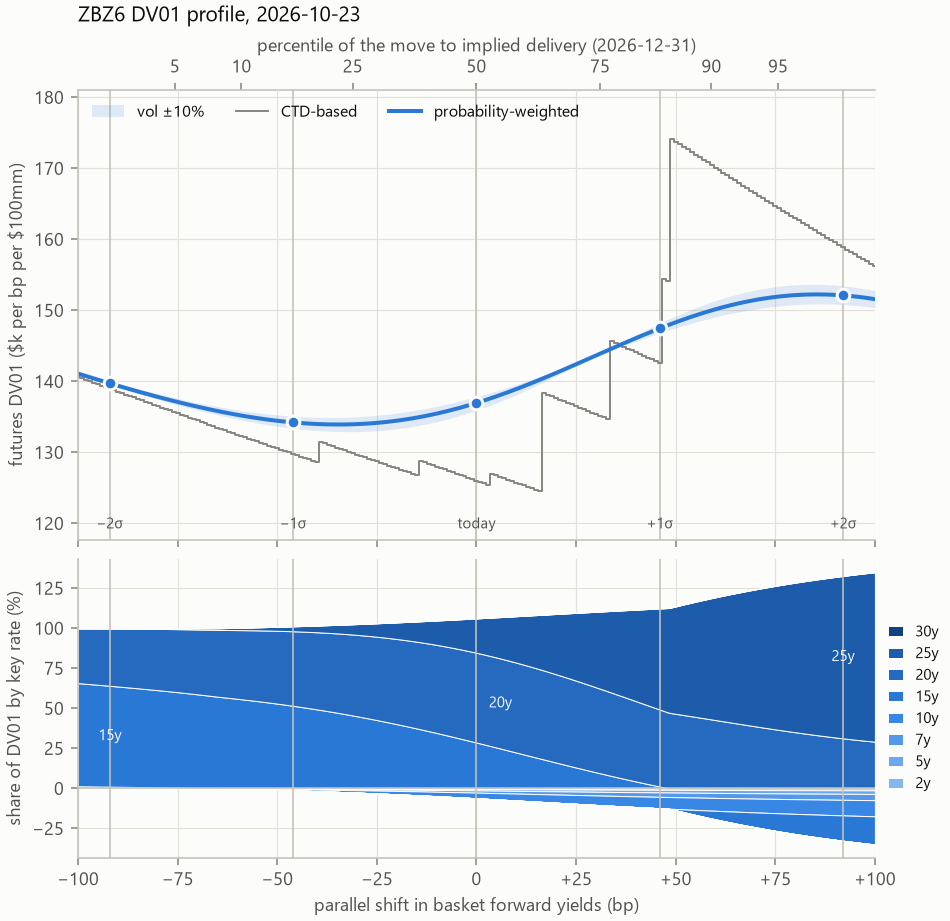
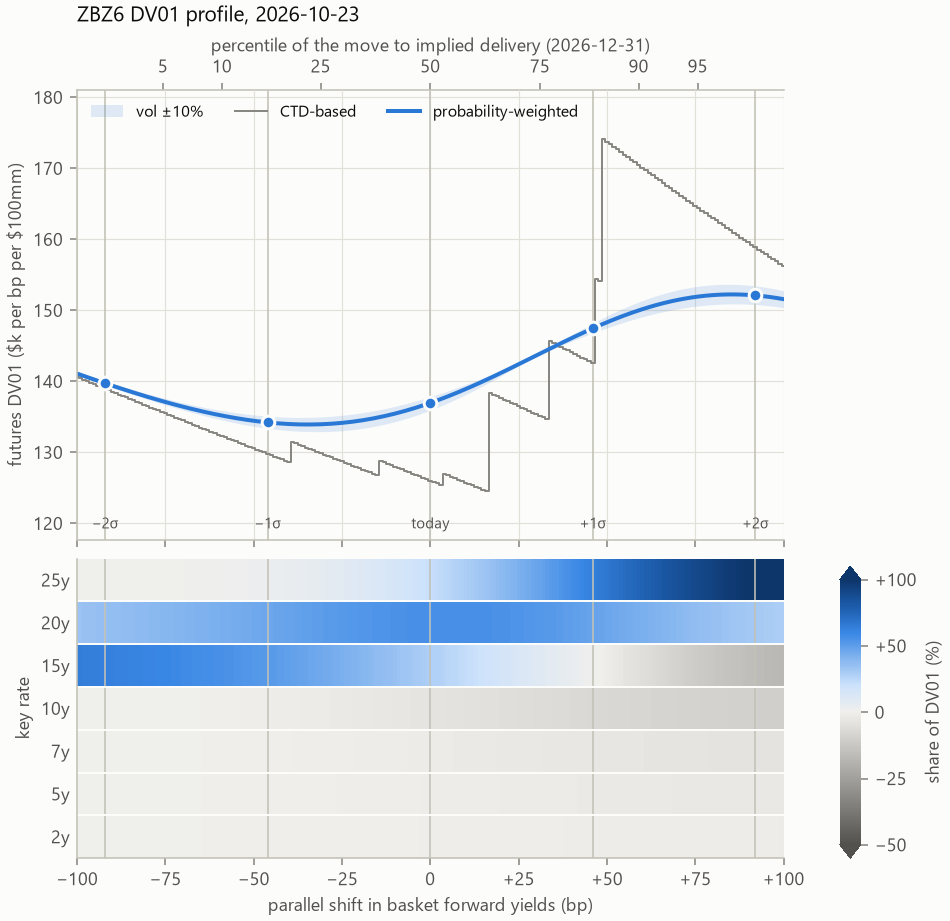
Draw chart 1's key-rate shares as a heatmap
Eight buckets as stacked bands needed eight distinguishable steps of one blue, more than the ramp
holds: six of seven neighbouring pairs were under the palette's lightness step, and the negative
shares stacked below zero couldn't be read. One row per bucket instead, positive shares in blue
and negative ones in gray on a fixed −50% to +100% scale, so the switch shows as the dark cell
moving between rows. Decision recorded in decisions.md; README image redrawn.

diff --git a/src/ctd/report/charts.py b/src/ctd/report/charts.py
@@ -6,8 +6,8 @@ global figure state; style through ``rc_context``.
 
 - Chart 1: region-weighted futures DV01 against the shift (vol ±10% band, the CTD-based staircase,
   the ±1σ and ±2σ states as points), percentiles of the move to implied delivery on the top axis; below
-  on the same x-axis, each key-rate bucket's share of the DV01, positives stacked up and negatives
-  down.
+  on the same x-axis, a heatmap of each key-rate bucket's share of the DV01 (one row per bucket,
+  positive shares in the blue ramp, negative ones in gray, on one scale for every contract).
 - Chart 2: the change in each key-rate DV01 from today at −2σ, −1σ, +1σ and +2σ, with the
   CTD-based change as a marker on each bar.
 - Chart 3: one contract's series (``report.series``) by trading day: the model DV01 with its ±1σ
@@ -19,6 +19,7 @@ import io
 
 import matplotlib
 import numpy as np
+from matplotlib.colors import LinearSegmentedColormap, TwoSlopeNorm
 from matplotlib.figure import Figure
 from matplotlib.lines import Line2D
 from matplotlib.ticker import FixedLocator, FuncFormatter
@@ -27,11 +28,21 @@ from scipy.special import ndtr, ndtri
 from ctd.report.series import CTD, Row
 from ctd.risk.dv01 import dollars
 
-# reference palette (dataviz skill, light surface): chrome, slot-1 blue, the blue ordinal ramp from
-# step 250 for the eight buckets (short tenors light, long dark), blue ↔ red for rally ↔ sell-off
+# reference palette (dataviz skill, light surface): chrome, slot-1 blue, blue ↔ red for rally ↔ sell-off.
+# Chart 1's bucket shares are a heatmap, so the row names the bucket and color only has to carry the
+# share: the sequential blue ramp up from the neutral gray for positive shares, gray down for negative
+# ones (blue ↔ red would clash with chart 2's rally ↔ sell-off). Eight buckets as stacked bands needed
+# eight distinguishable steps of one hue, more than the ramp holds (decisions.md, Chart rendering).
 SURFACE, INK, INK2, MUTED, GRID, AXIS = "#fcfcfb", "#0b0b0b", "#52514e", "#898781", "#e1e0d9", "#c3c2b7"
 SERIES = "#2a78d6"
-BUCKETS = ("#86b6ef", "#6da7ec", "#5598e7", "#3987e5", "#2a78d6", "#256abf", "#1c5cab", "#104281")
+NEUTRAL = "#f0efec"
+SHARE_CMAP = LinearSegmentedColormap.from_list(
+    "share", [(0.0, INK2), (0.5, NEUTRAL), (0.6, "#cde2fb"), (0.7, "#86b6ef"), (0.8, "#3987e5"),
+              (0.9, "#1c5cab"), (1.0, "#0d366b")])
+# % of DV01, the same scale for every contract. Shares run from about −25% (the short buckets of
+# low-coupon bonds) to about 140% (UBZ6's 25y), so gray is full at −50% and blue at +100%; beyond
+# either, the end color.
+SHARE_NORM = TwoSlopeNorm(vcenter=0, vmin=-50, vmax=100)
 STATES = {-2: "#1c5cab", -1: "#86b6ef", 1: "#f0a09f", 2: "#e34948"}
 SIGMA = {-2: "−2σ", -1: "−1σ", 0: "today", 1: "+1σ", 2: "+2σ"}
 
@@ -112,32 +123,34 @@ def profile_chart(rec: dict) -> bytes:
 
         dv01 = np.array(curve["dv01"])
         shares = 100 * np.array(curve["krd"]) / dv01[:, None]
-        nodes = rec["krd"]["nodes"]
-        labels = [f"{n:g}y" for n in nodes]
-        up = bottom.stackplot(x, np.clip(shares, 0, None).T, colors=BUCKETS, edgecolor=SURFACE, linewidth=0.5,
-                              labels=labels)
-        bottom.stackplot(x, np.clip(shares, None, 0).T, colors=BUCKETS, edgecolor=SURFACE, linewidth=0.5)
-        bottom.axhline(0, color=AXIS, linewidth=0.8)
-        _label_bands(bottom, x, np.clip(shares, 0, None), labels)
-        bottom.set_ylabel("share of DV01 by key rate (%)")
+        keep = share_rows(shares)
+        nodes = rec["krd"]["nodes"][keep]
+        xe = np.r_[x[0], (x[1:] + x[:-1]) / 2, x[-1]]  # cell edges around each centre
+        mesh = bottom.pcolormesh(xe, np.arange(len(nodes) + 1) - 0.5, shares[:, keep].T, cmap=SHARE_CMAP,
+                                 norm=SHARE_NORM, shading="flat")
+        bottom.grid(False)
+        for y in np.arange(1, len(nodes)) - 0.5:  # a surface gap between rows
+            bottom.axhline(y, color=SURFACE, linewidth=1)
+        bottom.set_yticks(np.arange(len(nodes)), [f"{n:g}y" for n in nodes])
+        bottom.tick_params(axis="y", length=0)
+        bottom.set_ylabel("key rate")
         bottom.set_xlabel(LIGHT_MODEL_SHIFT_AXIS)
         bottom.set_xlim(x[0], x[-1])
         bottom.xaxis.set_major_formatter(FuncFormatter(_bp))
-        bottom.legend(up[::-1], labels[::-1], loc="center left", bbox_to_anchor=(1.0, 0.5), fontsize=7.5,
-                      handlelength=1.0)
+        bar = fig.colorbar(mesh, ax=[top, bottom], location="right", shrink=0.38, anchor=(0.0, 0.0), aspect=14,
+                           extend="both")
+        bar.set_label("share of DV01 (%)", color=INK2)
+        bar.outline.set_visible(False)
+        bar.set_ticks([-50, -25, 0, 50, 100])
+        bar.ax.yaxis.set_major_formatter(FuncFormatter(lambda v, _: f"{v:+.0f}".replace("-", "−") if v else "0"))
         return _png(fig)
 
 
-def _label_bands(ax, x: np.ndarray, pos: np.ndarray, labels: list[str]) -> None:
-    """Name each positive band where it is thickest, if it is thick enough to hold the label."""
-    base = np.cumsum(pos, axis=1) - pos
-    for i, label in enumerate(labels):
-        j = int(pos[:, i].argmax())
-        if pos[j, i] < 9:
-            continue
-        j = min(max(j, 8), len(x) - 9)  # keep the label off the edges
-        ax.text(x[j], base[j, i] + pos[j, i] / 2, label, ha="center", va="center", fontsize=7.5,
-                color=INK if i < 3 else SURFACE)
+def share_rows(shares: np.ndarray) -> slice:
+    """The key-rate buckets chart 1 shows: all but the end ones the contract never loads on at any
+    shift (under ``EMPTY_BUCKET`` of the DV01, as in chart 2), so ZN's chart has no 15y to 30y rows."""
+    used = np.flatnonzero(np.abs(shares).max(axis=0) >= 100 * EMPTY_BUCKET)
+    return slice(int(used.min()), int(used.max()) + 1)
 
 
 def used_buckets(pts: dict, today: int) -> slice:

diff --git a/tests/test_report.py b/tests/test_report.py
@@ -43,6 +43,14 @@ def test_chart_2_drops_only_the_end_buckets_nothing_loads_on():
     assert charts.used_buckets(pts, 0) == slice(1, 7)  # 2y's 1e-4 is under 0.5% of the DV01; 30y is empty
 
 
+def test_chart_1_rows_drop_only_the_end_buckets_nothing_loads_on():
+    # % shares at three shifts: 2y and 25y under 0.5%, 5y loaded only negatively, 15y empty but inside the range
+    shares = np.array([[0.1, -3.0, 60.0, 43.0, 0.0, 0.0, 0.0, 0.0],
+                       [0.2, -1.0, 40.0, 50.0, 0.0, 11.0, 0.0, 0.0],
+                       [0.0, 0.0, 20.0, 60.0, 0.0, 20.0, 0.4, 0.0]])
+    assert charts.share_rows(shares) == slice(1, 6)
+
+
 def test_chart_2_keeps_a_bucket_loaded_only_negatively(rec):
     # the 2% 2050 bond's short buckets are negative but still a load: kept
     pts = rec["profile"]["points"]

diff --git a/docs/design.md b/docs/design.md
@@ -501,7 +501,7 @@ Goal: time series of CTD probabilities, futures DV01 and KRDs for past contracts
    2. [x] Par curve and bond KRDs (`curve/par.py`, `risk/krd.py`, reader `par_curve.read_latest`): linear par interpolation, bootstrap, tent bumps, shares scaled to each bond's DV01 ([decisions.md](decisions.md), How KRDs are computed); probability-weighted and CTD-based KRDs and effective maturity, printed by `ctd run` and saved (results schema 3). Interval probabilities enter the KRDs as midpoints rescaled to sum to 1, with a warning only when they could move effective maturity by more than 0.05y (at most 0.04y on the stored dates, so far never). Tested: the bootstrap reprices par bonds at par, a par bond on a node loads only on it, the 2¼% Aug-46 matches the decisions.md comparison. ZBZ6 on 2026-10-21: effective maturity 19.9y probability-weighted against 18.6y CTD-based, with $13,300 at 25y from the 1⅜% 2050; ZNZ6 6.8y against 6.7y. KRDs per cluster (5.9: same dominant key rate, DV01 within 5%; members weighted by probability), printed and saved (results schema 4): ZBZ6's clusters run from 17.2y to 27.9y effective maturity and $120k to $190k per $100mm. A warning when the par curve predates the as-of date.
    3. [x] ATM vol (`vol/atm.py`): implied vol of the at-the-money quarterly option, converted to yield vol with the CTD's DV01/CF at that expiry's underlying (5.5), scaled to the horizon by √T; distance to switch in σ. Written per expiry, so item 7 can add a second one. For the cross-check at today's state (no shift of the centre; `c = 0` in item 4) against the light model's digitals, use the width at option expiry, not at the horizon, so the gap measures skew rather than the extra time to delivery. Normal (Bachelier) implied vol of the out-of-the-money put below and call at or above the futures price, interpolated linearly in strike to it; time in calendar days over 365. `ctd run` prints the vol, the widths to the horizon and to expiry, the nearest switch on each side in bp and σ (flagged below 1σ), and per crossover its σ and its normal tail at expiry next to the digital; saved in results schema 5. ZBZ6 on 2026-10-21: 12.7 points per √year, 102bp per √year in yield, a 45bp width to the 31 December horizon; the normal tails run 1–3 points above the digitals. ZNZ6: 109bp per √year, 48bp.
    4. [x] Shifted-state model (`model/profile.py`): for each centre `c` from −100 to +100bp, probabilities as the normal mass of each CTD region on the envelope, and region-weighted DV01 and KRDs (5.9) evaluated where each bond is CTD; ±1σ and ±2σ as points; the change in each KRD at those points; vol ±10% bands. With β = 1 the switches don't move with `c`, so the shift axis is cut once into cells of at most 1bp with every switch as an edge, each carrying its CTD's DV01/CF and KRDs at the shifted forward yield and a par curve shifted by the same amount; a state's weights are the cells' exact normal masses, so probabilities are exact Φ differences between switches. The cells reach ±(100bp or 2σ, + 6 widths at vol +10%). The state at 0 is now the headline DV01 and KRDs; item 1's z = 0 weighting with the option-implied probabilities stays as the cross-check. `ctd run` prints the states at −2σ to +2σ (shift, percentile, CTD at the shift, DV01 and CTD-based DV01, effective maturities) and the KRD changes from today, model and CTD-based; results schema 6 holds the whole profile. Tested: region-weighted DV01 against finite differences of the expected envelope (section 8), two-bond probabilities as normal tails, a narrow width giving the CTD-based staircase. ZBZ6 on 2026-10-21: $137,000 per $100mm today (vol ±10%: $136,100–137,700), $147,800 at +1σ against a CTD-based $172,100; at +1σ the model moves $66k per $100mm into the 25y bucket where the CTD-based jumps $197k. Found while testing: against the par curve, a fixed-coupon bond's effective maturity *lengthens* as yields rise (a discount bond sits beyond its maturity, a par bond on it), the opposite of a cash-flow-weighted maturity; outputs.md chart 3 (effect 3) corrected to match.
-   5. [x] Charts and report (`report/charts.py`, `report/page.py`, `ctd report [--asof] [--contract ...] [--out]`): chart 1 (DV01 profile with bp and percentile axes, CTD-based staircase, bucket shares allowing negatives), chart 2 (diverging KRD change bars), tables (probabilities from both models, DV01 vs CTD-based DV01, distance to switch), one self-contained HTML page per date in `/output/`. Drawn from the saved results only (schema 8 or later, which adds the delivery window and the carry behind the horizon; an older file is refused with a request to re-run), every contract saved for the date in `cme_products.toml` order, charts as small multiples. The summary gives each contract's CTD with P(RCaD), the probability that it remains CTD at the implied delivery date, from both models (the digitals can only measure it at option expiry), and the implied delivery date (a column, with the carry rule as a footnote). Chart 1: the region-weighted DV01 with the vol ±10% band, the CTD-based staircase and the ±1σ/±2σ states as points with guides through both panels; below, each bucket's share of the DV01 stacked, positives up and negatives down (ZBZ6's low-coupon contenders reach −35% at +100bp). Chart 2: the four states' bars per bucket (blue rally, red sell-off), the CTD-based change as a marker; end buckets under 0.5% of today's DV01 in every state are left out (ZN's 15y to 30y). Tables per contract: the states (DV01, CTD-based DV01 and effective maturities), the KRDs today and their changes (chart 2's numbers), the probabilities (digitals and ATM normal), every switch with its σ, digital and normal tail (flagged below 1σ), and the inputs and warnings. PNGs carry no version stamp, so the same result redraws the same bytes. Tested: the page holds both charts and every table per contract, refuses an old schema, and the command writes the date's page in contract order.
+   5. [x] Charts and report (`report/charts.py`, `report/page.py`, `ctd report [--asof] [--contract ...] [--out]`): chart 1 (DV01 profile with bp and percentile axes, CTD-based staircase, bucket shares allowing negatives), chart 2 (diverging KRD change bars), tables (probabilities from both models, DV01 vs CTD-based DV01, distance to switch), one self-contained HTML page per date in `/output/`. Drawn from the saved results only (schema 8 or later, which adds the delivery window and the carry behind the horizon; an older file is refused with a request to re-run), every contract saved for the date in `cme_products.toml` order, charts as small multiples. The summary gives each contract's CTD with P(RCaD), the probability that it remains CTD at the implied delivery date, from both models (the digitals can only measure it at option expiry), and the implied delivery date (a column, with the carry rule as a footnote). Chart 1: the region-weighted DV01 with the vol ±10% band, the CTD-based staircase and the ±1σ/±2σ states as points with guides through both panels; below, each bucket's share of the DV01 as a heatmap, one row per bucket, positive shares blue and negative gray (ZBZ6's low-coupon contenders take its short buckets to −35% in all at +100bp; first drawn as stacked bands, changed for legibility, [decisions.md](decisions.md) Chart rendering). Chart 2: the four states' bars per bucket (blue rally, red sell-off), the CTD-based change as a marker; end buckets under 0.5% of today's DV01 in every state are left out (ZN's 15y to 30y). Tables per contract: the states (DV01, CTD-based DV01 and effective maturities), the KRDs today and their changes (chart 2's numbers), the probabilities (digitals and ATM normal), every switch with its σ, digital and normal tail (flagged below 1σ), and the inputs and warnings. PNGs carry no version stamp, so the same result redraws the same bytes. Tested: the page holds both charts and every table per contract, refuses an old schema, and the command writes the date's page in contract order.
    6. [ ] March contracts (ZBH7, ZNH7 with MAR27 options) through items 1–5, and the roll comparison: DV01 and KRDs of December and March on the same date.
    7. [ ] Total-variance vol interpolation (5.5 step 3, brought forward from phase 3): the January serial (on March futures, about 24 December) as a second expiry, converted with the March CTD's DV01/CF from item 6; `V(T) = σ²T` linear between the December quarterly and the January serial, so the extra weeks to delivery (with the December FOMC) get their own priced variance rather than √T. No beta adjustment for the March CTD's different maturity while β = 1 (slightly off for ZB). √T from a single expiry stays as the fallback. Why √T alone isn't enough: on 2026-10-25 the December options cover 26 days of a 67-day horizon, and a 20% error in the extrapolated vol moves S by about 10%, a switch 1σ away by about ±2.5 points.
    8. [x] Repo from the SR1 strip (`funding/strip.py`, 5.3 path 3; [decisions.md](decisions.md), Repo path for the light model): each month flat at the rate that reprices its SR1 average after the month's known fixings and the days carried in from the month before; flat SOFR as the fallback with a warning, and as a cross-check on the horizon. Readers: `read_futures(..., "cme_stir")`, `nyfed.read_known` (fixings from earlier as-of dates' files). Printed by `ctd run` and saved (results schema 7). Tested: a flat strip gives back flat SOFR, each month reprices its average including carried-in weekend and holiday days, missing months and fixings fall back. ZBZ6 on 2026-10-21: 4.02% to the 31 December horizon against 3.89% flat, horizon and CTD unchanged. Path 2 (FOMC steps, year-end turn) is deferred. The extra SR1 months for history are bought and in the derived futures table (data.md §5.13), not yet read by `ctd run`.

diff --git a/docs/decisions.md b/docs/decisions.md
@@ -143,9 +143,16 @@ The light model has no horizon logic (§5.2 runs both dates when carry is near z
 **Decision:** matplotlib PNGs, embedded (base64) in one self-contained HTML page per as-of date under the gitignored `/output/`, written by `report/` from saved results. Plain string formatting for the HTML; no template engine.
 
 **Why:**
-- matplotlib is already a dependency and covers every chart feature: two panels on a shared x-axis, a secondary x-axis in percentiles (`secondary_xaxis` with bp↔percentile functions), a staircase overlay, diverging bars in small multiples, and the bucket-share panel with negative shares (positives stacked above zero, negatives below, or a heatmap).
+- matplotlib is already a dependency and covers every chart feature: two panels on a shared x-axis, a secondary x-axis in percentiles (`secondary_xaxis` with bp↔percentile functions), a staircase overlay, diverging bars in small multiples, and the bucket-share panel with negative shares (a heatmap, below).
 - Static PNGs are what a rates note, email or post takes, and the same result file always draws the same chart (reproducibility).
 - Plotly's static export needs `kaleido` (often flaky on Windows) and makes the dual bp/percentile axis awkward; interactivity isn't what readers need. Altair has the same export problem and handles shared-axis panels poorly. An interactive view can be added later for exploration.
+
+**Chart 1's bucket shares as a heatmap (2026-10-26).** The bottom panel was first drawn as stacked bands, one per key-rate bucket, in eight steps of one blue ramp. Eight ordered buckets need eight steps a reader can tell apart, and one hue holds about five: six of the seven neighbouring pairs were under the 0.06 OKLab lightness step the palette's ordinal check asks for, so 7y, 10y and 15y ran together, and the negative shares stacked below zero couldn't be read at all. As a heatmap, the row names the bucket, so color only carries the share:
+- one row per bucket (end buckets under 0.5% of the DV01 at every shift left out, as in chart 2), on the same shift axis as the DV01 panel;
+- positive shares in the blue ramp up from a neutral gray, negative shares in gray; full gray at −50% and full blue at +100%, since shares run from about −25% to about 140%; one scale for every contract;
+- not blue ↔ red, which chart 2 already uses for rally ↔ sell-off.
+
+A switch shows as the dark cell moving between rows: ZBZ6 on 2026-10-23 from 15y through 20y to 25y as yields rise.
 
 ## When December options expire (design §5.11, §10)
 

diff --git a/docs/outputs.md b/docs/outputs.md
@@ -41,7 +41,7 @@ A **duration-drift monitor for Treasury futures users**: how stable is the durat
 The headline chart. It separates **level** (how much DV01) from **shape** (where on the curve).
 
 - **Top panel:** total probability-weighted DV01 against factor shift (about −100 to +100bp, wider in steps of 10bp when ±2σ falls beyond, dual-labelled in percentiles). Shows the switch staircase smoothed by vol. ±1σ and ±2σ marked as points on the curve.
-- **Bottom panel (same x-axis):** stacked share or heatmap of each key-rate bucket's share of total DV01. A switch appears as a band bending toward longer buckets, for example ZB risk sliding from 20y into 30y.
+- **Bottom panel (same x-axis):** heatmap of each key-rate bucket's share of total DV01, one row per bucket; positive shares in blue, negative ones in gray ([decisions.md](decisions.md), Chart rendering). A switch appears as the dark cell moving to a longer bucket, for example ZB risk sliding from 15y through 20y into 25y.
 - **Overlay:** faint CTD-based DV01 step line on the top panel.
 - One chart per contract, as small multiples.
 
